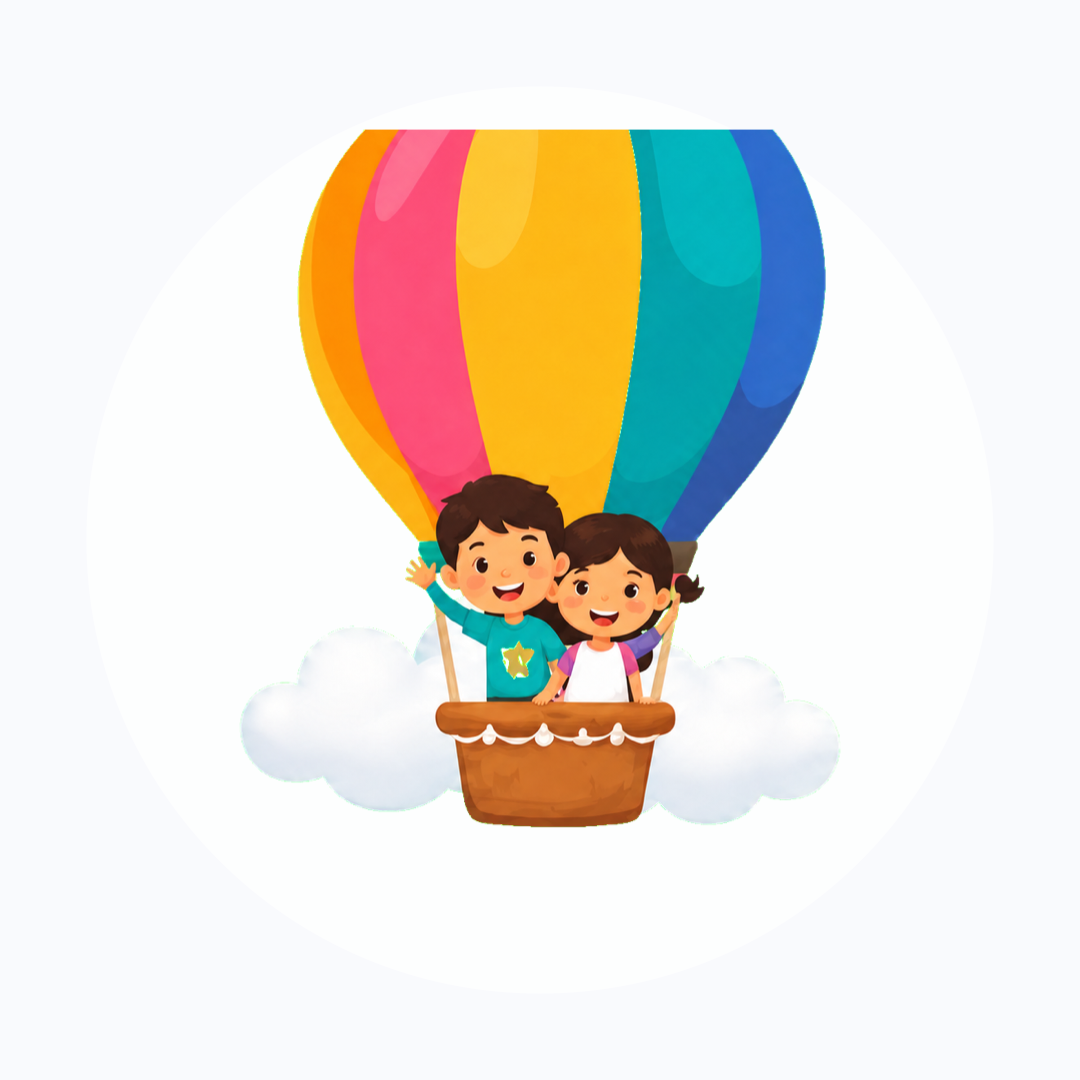
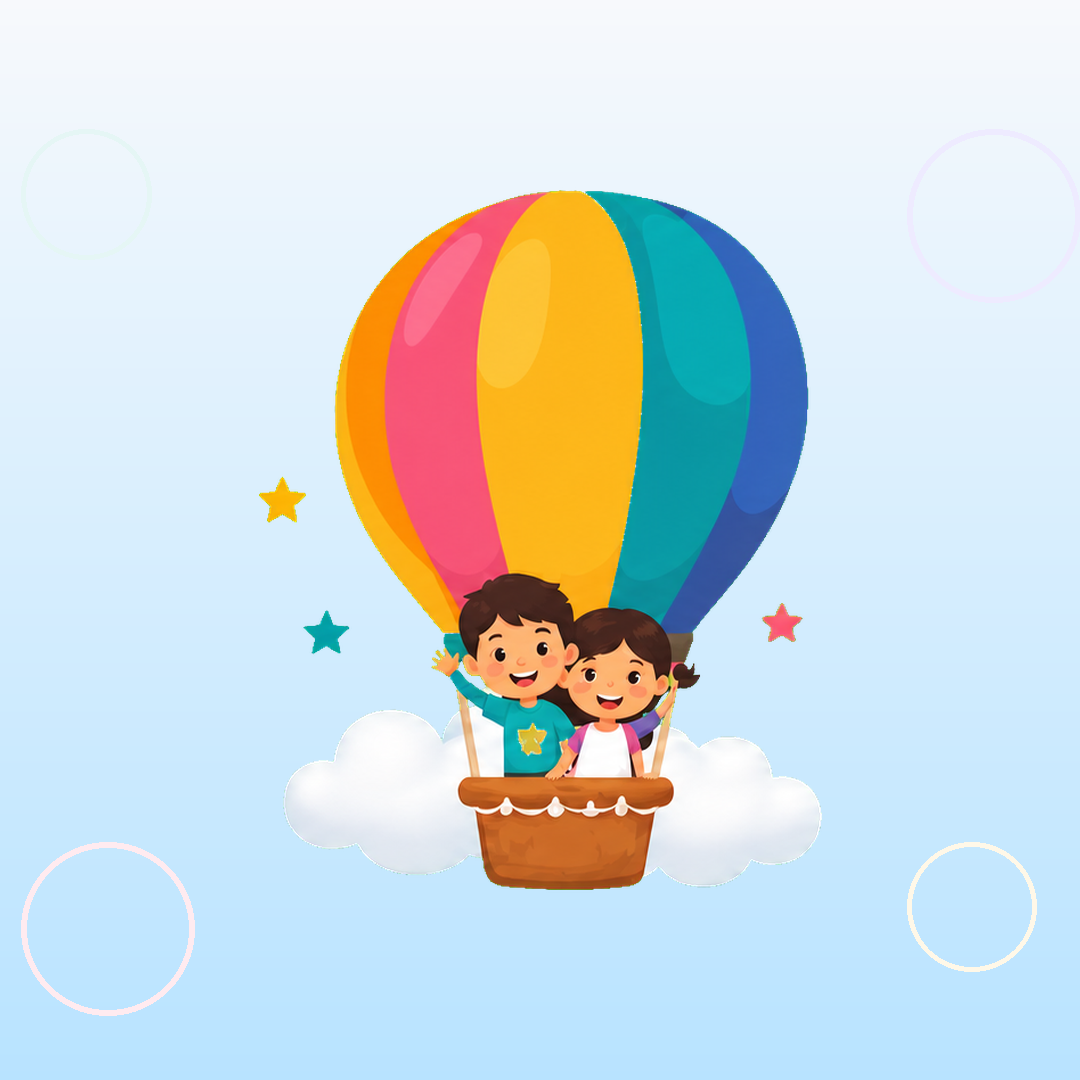
Rebuild Magic Balloon brand assets with safe cropping

diff --git a/PROJECT-STATUS.md b/PROJECT-STATUS.md
@@ -307,6 +307,17 @@ Static website using semantic HTML, separate block-level CSS files imported by `
 - Next website phase: `MONITORING / MAINTENANCE`.
 - Separate future initiative: `MATEGROWTH DAYCARE WEBSITE TEMPLATE V1 — PLANNING`.
 
+## BRAND ASSET KIT V2 — REBUILT FOR SAFE CROPPING
+
+- The complete 25-file Magic Balloon brand kit was rebuilt because the V1 square/profile composition could crop the top of the balloon and did not maintain a consistent safe area across formats.
+- Authoritative visual reference: `assets/images/logo/logo.png`, confirmed with the official `Magic Balloon Childcare` spelling and complete balloon, children, basket, clouds, stars, and wordmark.
+- All assets were reconstructed from one consistent extracted brand layer rather than from the defective profile image or separate logo interpretations.
+- Square profile artwork keeps the complete balloon illustration inside the circular-crop safe region; transparent icons, favicons, loader, logos, and watermark have measured alpha margins on every edge.
+- Google, Facebook, Open Graph, Twitter/X, social, story, landscape, and email compositions use format-specific contain layouts with the complete brand mark inside the central safe region.
+- A temporary 25-asset contact sheet and circular profile preview were created outside public assets for joint visual QA. Every asset was inspected for top, bottom, left, right, spelling, safe area, and intended crop behavior.
+- Current metadata already points to the validated `magic-balloon-og-image.png`, `magic-balloon-twitter-card.png`, logo, icon, loader, and favicon filenames; no metadata path change was required.
+- Website regression QA covers Home EN/PT/ES, About, Child Care, Enrollment, Reviews, and Framingham at 375px, 430px, and 1440px after replacing the shared public assets.
+
 
 ## FINAL PRE-SEARCH-CONSOLE FIXES — IMPLEMENTED — AWAITING VALIDATION
 
